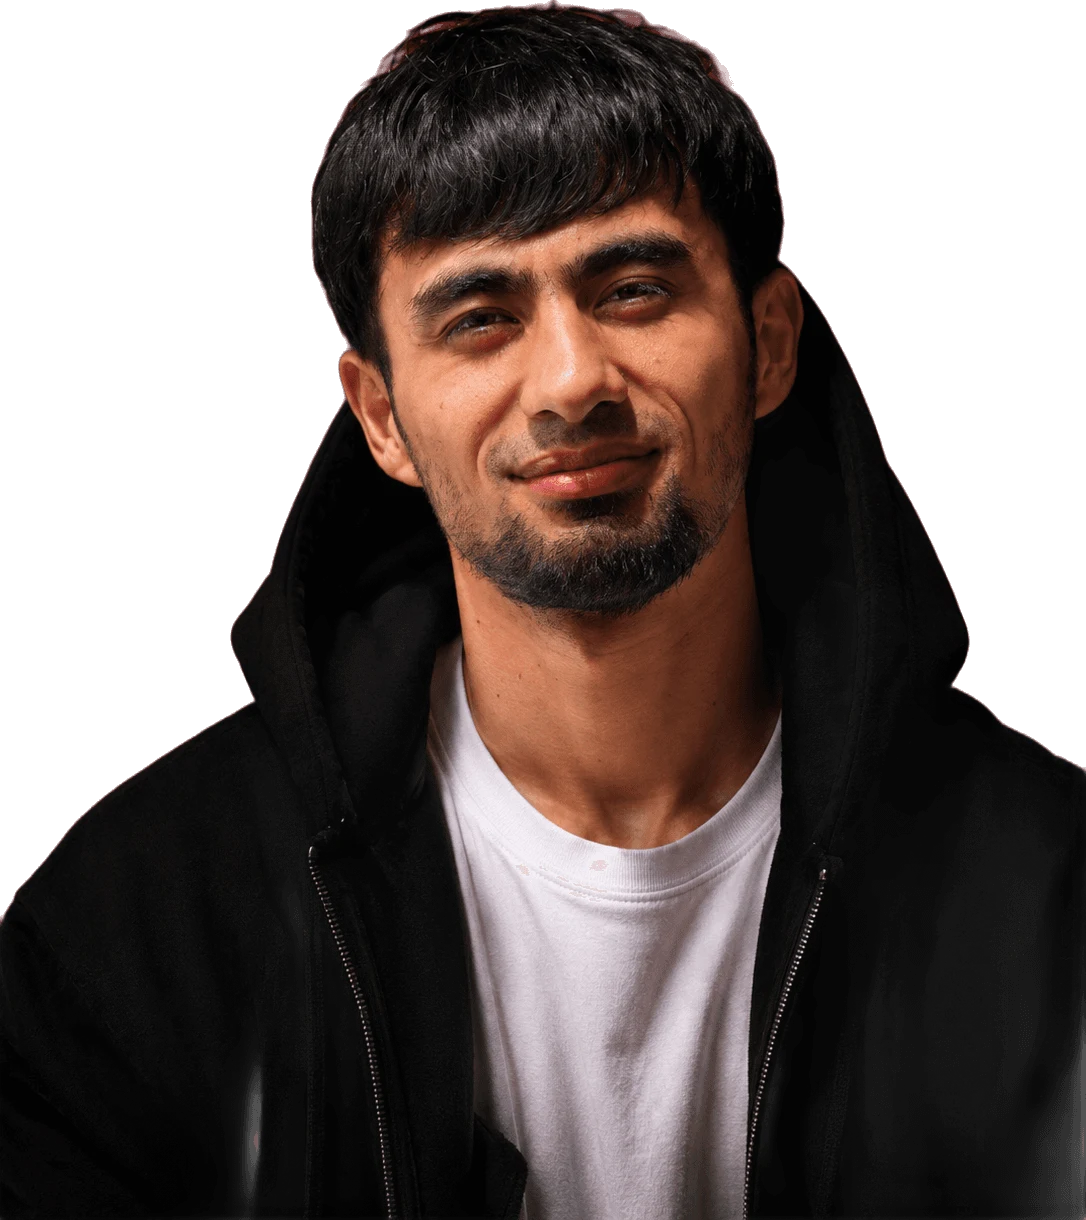
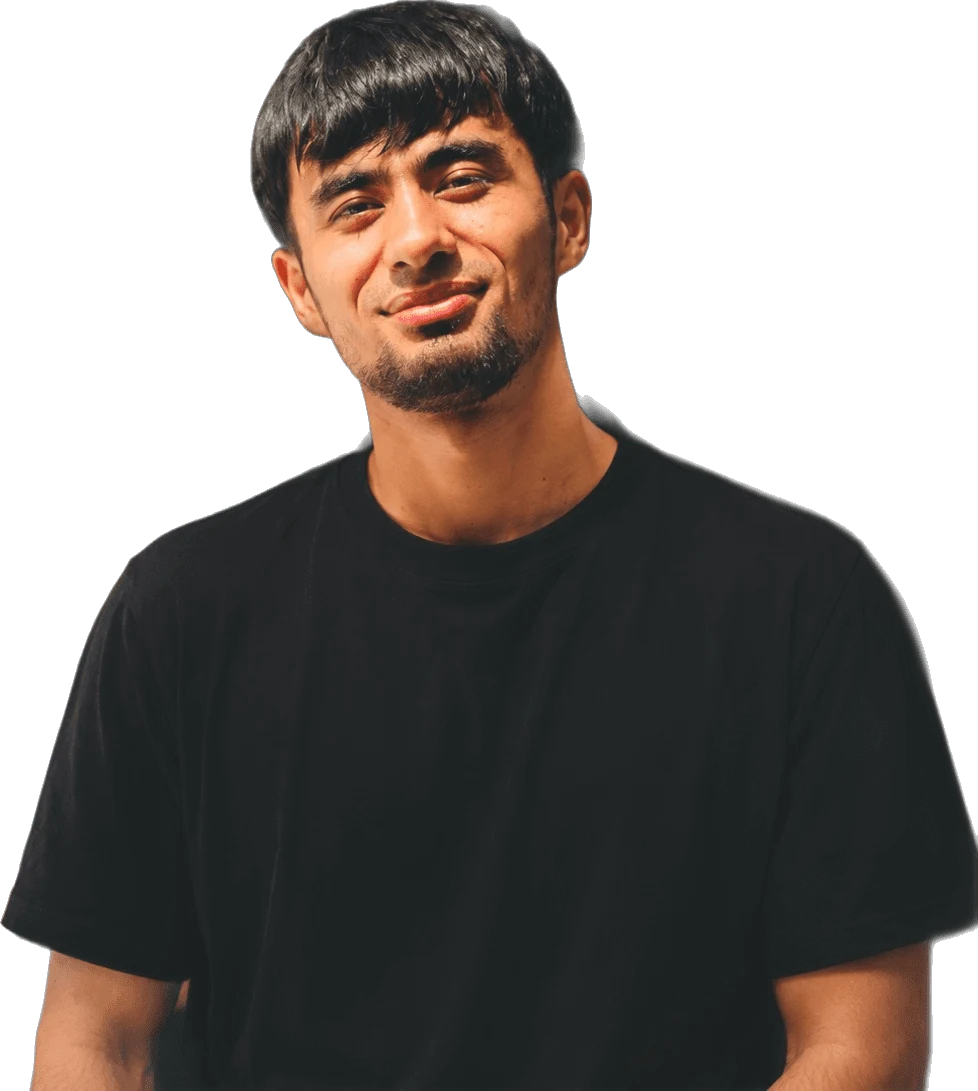
Refine about hero cards, swap photos, tidy education cards

diff --git a/apps/web/libs/components/about/AboutHero.tsx b/apps/web/libs/components/about/AboutHero.tsx
@@ -12,7 +12,8 @@ import { dunePath, localize } from '../../utils';
 import { pageCount } from '../../config';
 import { Profile } from '../../types/profile/profile';
 import { Education } from '../../types/education/education';
-import { EducationStatus } from '../../enums/education.enum';
+import { DegreeType, EducationStatus } from '../../enums/education.enum';
+import { FALLBACK_EDUCATION } from '../../fallback';
 import DownloadMenu from '../common/DownloadMenu';
 import defaultPortrait from '../../../public/img/about/about-hero-portrait.webp';
 
@@ -50,11 +51,16 @@ const AboutHero = () => {
 		fetchPolicy: 'cache-first',
 	});
 	const profile = getProfileData?.getProfile;
-	const educations = getEducationsData?.getEducations ?? [];
+	const loadedEducations = getEducationsData?.getEducations ?? [];
+	const educations = loadedEducations.length ? loadedEducations : FALLBACK_EDUCATION;
 	// the degree in progress (the master's), otherwise the first one
 	const education = educations.find((item) => item.status === EducationStatus.IN_PROGRESS) ?? educations[0];
 	const school = education ? localize(education.institution, router.locale) : t('about.hero.school');
-	const degree = education ? localize(education.major ?? education.program, router.locale) : t('about.hero.degree');
+	const bachelor = educations.find((item) => item.degree === DegreeType.BACHELOR);
+	// "Master's, Financial Management" / "재무관리 석사"
+	const degree = education
+		? t('about.hero.masterOf', { major: localize(education.major ?? education.program, router.locale) })
+		: t('about.hero.degree');
 	const country = localize(profile?.location?.country, router.locale) || t('top.country');
 	const city = localize(profile?.location?.city, router.locale);
 	const stat = profile?.manualStats?.[0];
@@ -207,7 +213,22 @@ const AboutHero = () => {
 								<small>{degree}</small>
 							</span>
 						</motion.div>
-						<motion.div className={'info-card'} {...rise(1.12, 24)}>
+						{bachelor && (
+							<motion.div className={'info-card'} {...rise(1.12, 24)}>
+								<span className={'icon'}>
+									<LuGraduationCap />
+								</span>
+								<span className={'info-text'}>
+									<strong>{localize(bachelor.institution, router.locale)}</strong>
+									<small>{t('about.hero.bachelorDegree')}</small>
+								</span>
+							</motion.div>
+						)}
+					</motion.div>
+
+					{/* right side: experience and location (two cards on each side of the photo) */}
+					<motion.div className={'info-cards right'} style={{ y: cardsY }}>
+						<motion.div className={'info-card'} {...rise(1.24, 24)}>
 							<span className={'icon'}>
 								<LuCodeXml />
 							</span>
@@ -216,16 +237,15 @@ const AboutHero = () => {
 								<small>{stat ? localize(stat.label, router.locale) : t('about.hero.expLabel')}</small>
 							</span>
 						</motion.div>
-					</motion.div>
-
-					<motion.div className={'based-card'} {...rise(1.24, 24)}>
-						<span className={'icon'}>
-							<LuMapPin />
-						</span>
-						<span className={'info-text'}>
-							<small>{t('about.hero.basedIn')}</small>
-							<strong>{city ? `${city}, ${country}` : country}</strong>
-						</span>
+						<motion.div className={'based-card'} {...rise(1.36, 24)}>
+							<span className={'icon'}>
+								<LuMapPin />
+							</span>
+							<span className={'info-text'}>
+								<small>{t('about.hero.basedIn')}</small>
+								<strong>{city ? `${city}, ${country}` : country}</strong>
+							</span>
+						</motion.div>
 					</motion.div>
 				</Box>
 			</Stack>

diff --git a/apps/web/scss/pc/about/about.scss b/apps/web/scss/pc/about/about.scss
@@ -302,6 +302,8 @@
 			.portrait-inner {
 				position: absolute;
 				inset: 0;
+				// the new photo is cut at its right edge: fade that edge out instead of showing a straight line
+				mask-image: linear-gradient(90deg, #000 78%, transparent 100%);
 
 				img {
 					object-fit: contain;
@@ -375,7 +377,7 @@
 			.info-cards {
 				position: absolute;
 				left: 0;
-				top: 52%;
+				top: 50%;
 				display: flex;
 				flex-direction: column;
 				gap: clamp(12px, 1vw, 20px);
@@ -480,11 +482,14 @@
 				animation-duration: 6.5s;
 				animation-delay: -4s;
 			}
-			.based-card {
-				position: absolute;
+			.info-cards.right {
+				left: auto;
 				right: 1.5%;
-				bottom: 14%;
-				z-index: 3;
+				top: 56%;
+				align-items: flex-end;
+			}
+			.based-card {
+				width: clamp(220px, 13.5vw, 270px);
 			}
 		}
 	}
@@ -1227,10 +1232,37 @@
 				font-size: clamp(14px, 1.05vw, 20px);
 				color: #4a3d35;
 			}
+			.department {
+				display: inline-flex;
+				flex-direction: column;
+				gap: 4px;
+				align-self: flex-start;
+				margin-top: clamp(16px, 1.4vw, 24px);
+				padding: 12px 18px;
+				border-left: 3px solid $accent;
+				border-radius: 0 14px 14px 0;
+				background: rgba($white, 0.7);
+				box-shadow: 0 10px 24px rgba(#b54a12, 0.08);
 
+				small {
+					font-size: clamp(11px, 0.75vw, 13px);
+					font-weight: 700;
+					letter-spacing: 0.08em;
+					text-transform: uppercase;
+					color: $accent;
+				}
+				strong {
+					font-size: clamp(17px, 1.3vw, 24px);
+					font-weight: 800;
+					color: $black;
+				}
+			}
+
+			// details line up at the bottom: a long major no longer leaves the other two floating higher
 			.edu-fields {
 				display: grid;
 				grid-template-columns: 1.4fr 1fr 1fr;
+				align-items: end;
 				margin-top: auto;
 				padding-top: clamp(22px, 2vw, 36px);
 			}
@@ -1267,9 +1299,10 @@
 					color: $black;
 				}
 			}
+			// sits under the name now, so the details row is always the last thing in the card
 			.location-pill {
 				align-self: flex-start;
-				margin-top: clamp(16px, 1.4vw, 24px);
+				margin-top: clamp(12px, 1vw, 18px);
 				padding: 9px 18px;
 				background: rgba($white, 0.75);
 				font-size: clamp(13px, 0.9vw, 16px);

diff --git a/apps/web/libs/components/about/Education.tsx b/apps/web/libs/components/about/Education.tsx
@@ -120,6 +120,19 @@ const EduCard = (props: EduCardProps) => {
 
 				<h3 className={'school'}>{localize(item.institution, router.locale)}</h3>
 				{item.institutionNative && <span className={'school-native'}>{item.institutionNative}</span>}
+				{item.location && (
+					<span className={'location-pill'}>
+						<LuMapPin />
+						{localize(item.location, router.locale)}
+					</span>
+				)}
+				{/* the department / programme, when it differs from the major */}
+				{item.program && item.major && (
+					<span className={'department'}>
+						<small>{t('about.education.department')}</small>
+						<strong>{localize(item.program, router.locale)}</strong>
+					</span>
+				)}
 
 				<Box className={'edu-fields'}>
 					{fields.map((field) => {
@@ -135,13 +148,6 @@ const EduCard = (props: EduCardProps) => {
 						);
 					})}
 				</Box>
-
-				{item.location && (
-					<span className={'location-pill'}>
-						<LuMapPin />
-						{localize(item.location, router.locale)}
-					</span>
-				)}
 			</Stack>
 		</motion.article>
 	);

diff --git a/apps/web/libs/fallback.ts b/apps/web/libs/fallback.ts
@@ -98,6 +98,7 @@ export const FALLBACK_EDUCATION: Education[] = [
 		degree: DegreeType.MASTER,
 		institution: { en: 'Inje University', ko: '인제대학교' },
 		institutionNative: '인제대학교',
+		program: { en: 'Global MBA', ko: '글로벌 MBA' },
 		major: { en: 'Financial Management', ko: '재무관리' },
 		location: { en: 'Gimhae, South Korea', ko: '대한민국 김해' },
 		startDate: '2025-03-01',

diff --git a/apps/web/scss/mobile/main.scss b/apps/web/scss/mobile/main.scss
@@ -442,10 +442,11 @@
 					left: 0;
 					right: 0;
 					flex-direction: row;
+					flex-wrap: wrap;
 					gap: 8px;
 				}
 				.info-card {
-					flex: 1;
+					flex: 1 1 40%;
 					width: auto;
 					gap: 10px;
 					padding: 10px;
@@ -456,7 +457,7 @@
 						font-size: 18px;
 					}
 				}
-				.based-card {
+				.info-cards.right {
 					display: none;
 				}
 			}
